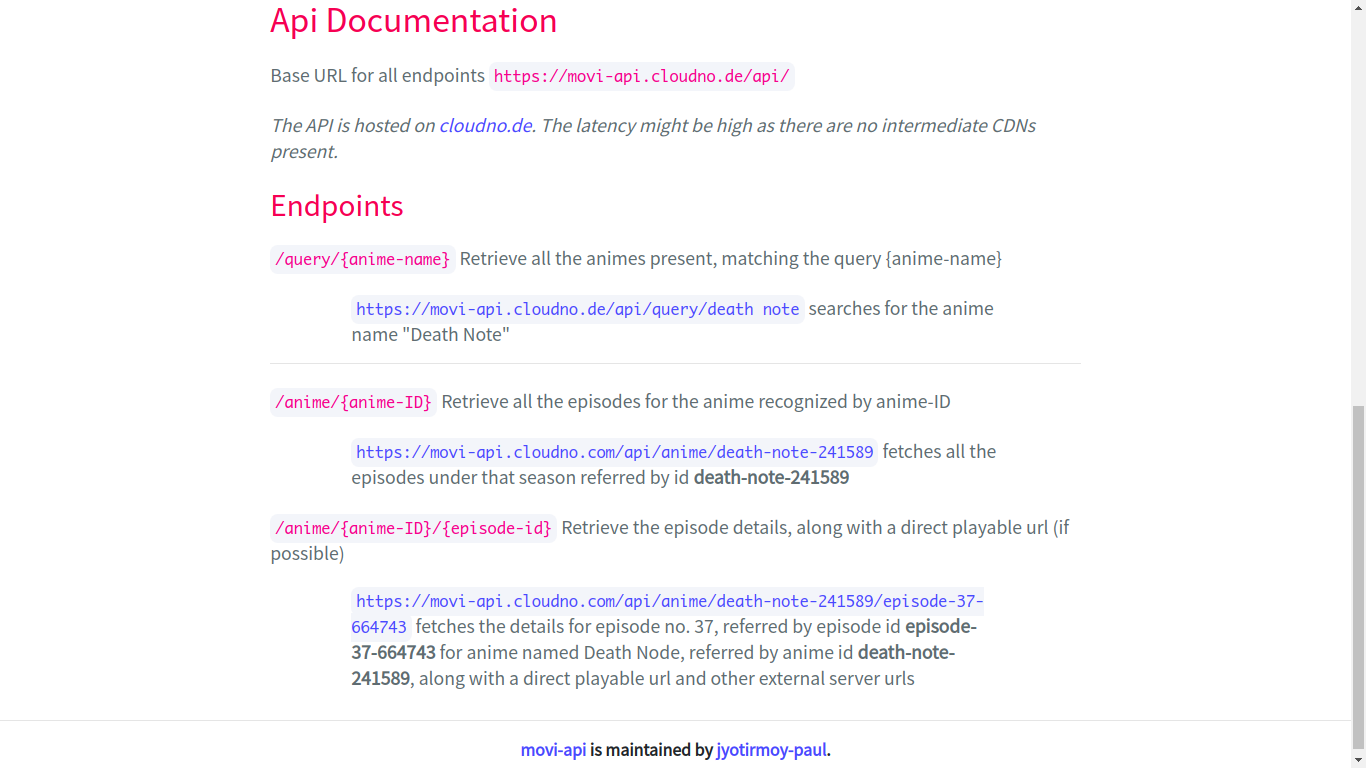
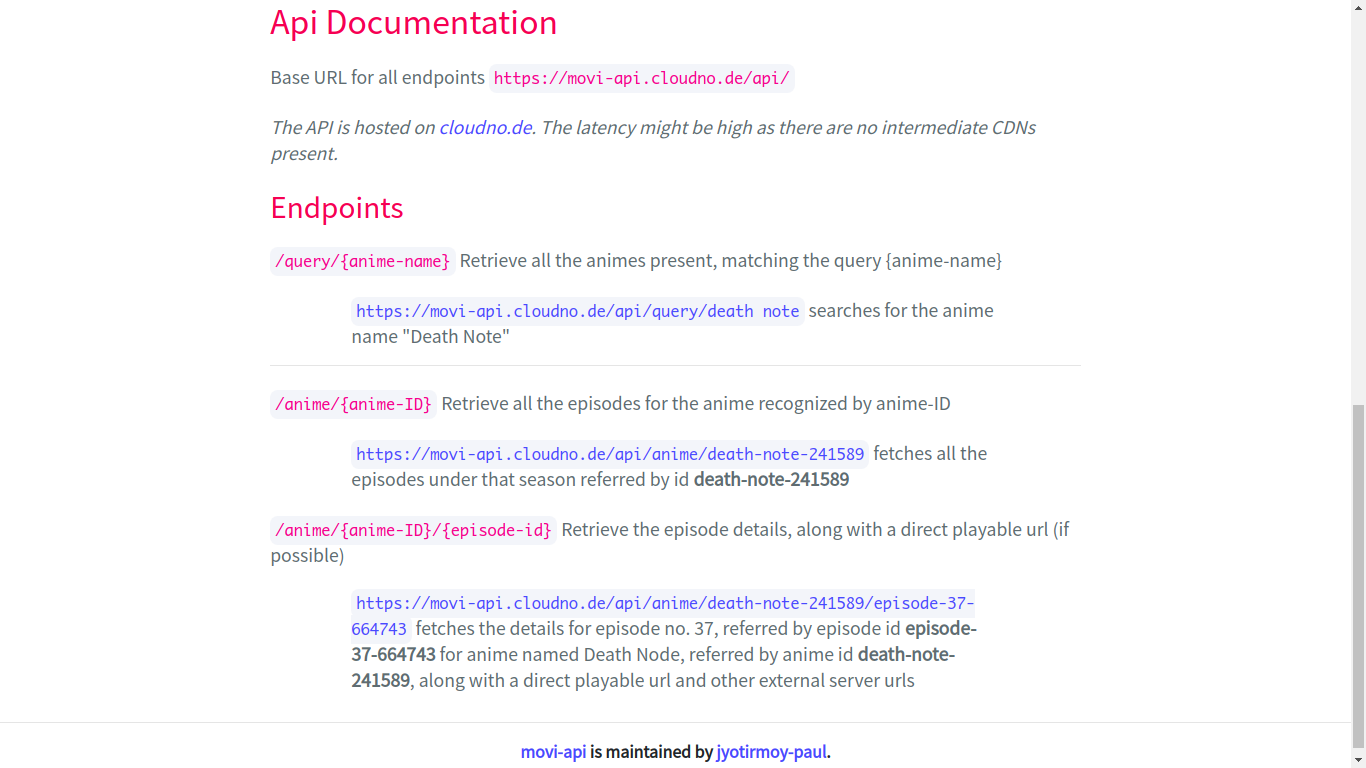
fixed URL

diff --git a/movi-api/build/index.html b/movi-api/build/index.html
@@ -122,8 +122,8 @@
         </p>
         <p class="example">
           <code
-            ><a href="https://movi-api.cloudno.com/api/anime/death-note-241589"
-              >https://movi-api.cloudno.com/api/anime/death-note-241589</a
+            ><a href="https://movi-api.cloudno.de/api/anime/death-note-241589"
+              >https://movi-api.cloudno.de/api/anime/death-note-241589</a
             ></code
           >
           fetches all the episodes under that season referred by id
@@ -138,8 +138,8 @@
         <p class="example">
           <code
             ><a
-              href="https://movi-api.cloudno.com/api/anime/death-note-241589/episode-37-664743"
-              >https://movi-api.cloudno.com/api/anime/death-note-241589/episode-37-664743</a
+              href="https://movi-api.cloudno.de/api/anime/death-note-241589/episode-37-664743"
+              >https://movi-api.cloudno.de/api/anime/death-note-241589/episode-37-664743</a
             ></code
           >
           fetches the details for episode no. 37, referred by episode id
